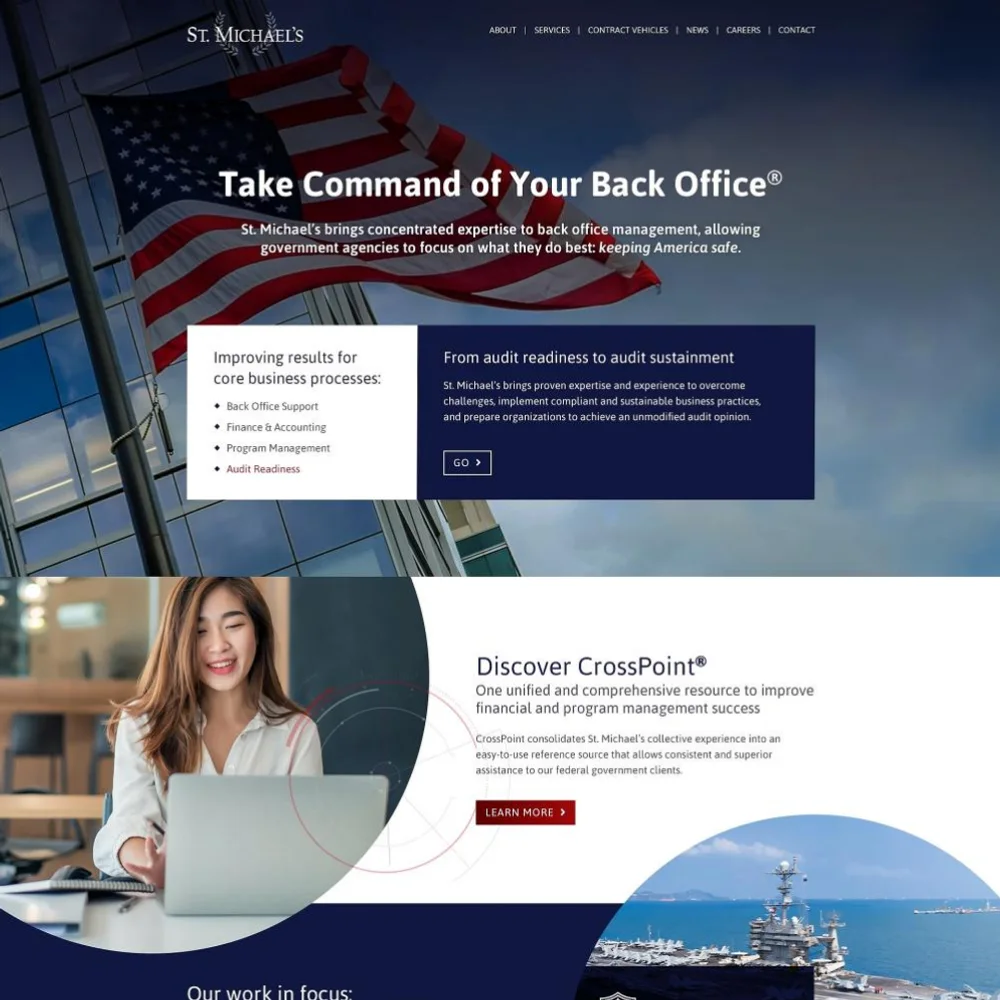
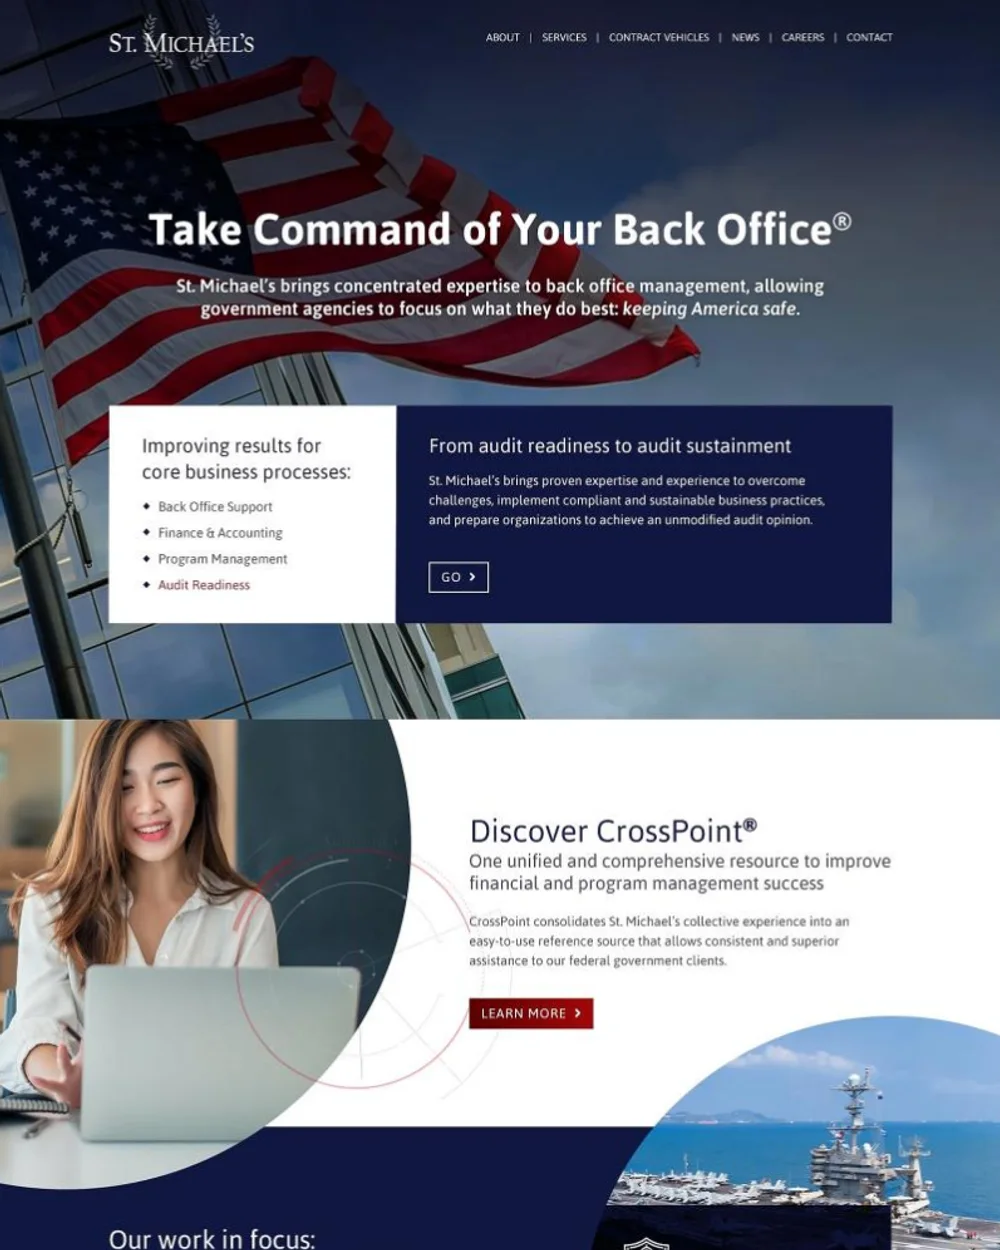
Make the "same record" an unfinished site, and both shots taller
The wireframe read as components. The left side is now the St.
Michael's homepage content with no design on it: browser-default serif,
blue underlined links, a grey box where the hero photo is missing, a
default button and a TODO note. Its source is kept under assets/src and
rendered to WebP. Both shots go to 4:5, the home cropped from its centre.

diff --git a/assets/src/incomplete-site.html b/assets/src/incomplete-site.html
@@ -1,0 +1,81 @@
+<!doctype html>
+<html lang="en">
+<head>
+<meta charset="utf-8">
+<title>St. Michael's — draft</title>
+<!-- The "same record": the St. Michael's homepage content with no design on it
+     yet. Browser defaults on purpose — serif text, blue underlined links, a
+     grey default button, and the photos not placed. Rendered to
+     ../incomplete-site.webp at 480x600 css px, 2x. -->
+<style>
+  html { background: #fff; }
+  body {
+    margin: 0;
+    padding: 14px 18px 18px;
+    width: 480px;
+    height: 600px;
+    box-sizing: border-box;
+    font-family: 'Times New Roman', Times, serif;
+    font-size: 12.5px;
+    line-height: 1.35;
+    color: #000;
+  }
+  a { color: #0000ee; }
+  h1 { font-size: 21px; margin: 0 0 2px; }
+  h2 { font-size: 15.5px; margin: 14px 0 4px; }
+  p { margin: 0 0 6px; }
+  ul { margin: 2px 0 6px; padding-left: 22px; }
+  li { margin: 0; }
+  hr { border: 0; border-top: 1px solid #999; margin: 8px 0 10px; }
+  .nav { font-size: 12px; margin: 0 0 6px; }
+  .nav a { margin-right: 2px; }
+  .missing {
+    display: flex; align-items: center; justify-content: center; gap: 8px;
+    height: 100px; margin: 4px 0 10px;
+    border: 1px solid #c9c9c9; background: #f3f3f3;
+    color: #777; font-family: Arial, Helvetica, sans-serif; font-size: 11px;
+  }
+  .missing svg { width: 16px; height: 16px; flex: none; }
+  .missing.small { height: 56px; width: 150px; float: left; margin: 2px 12px 4px 0; }
+  .todo { color: #b00; font-family: Arial, Helvetica, sans-serif; font-size: 10.5px; }
+  button { font-family: Arial, Helvetica, sans-serif; font-size: 12px; margin-top: 2px; }
+  table { border-collapse: collapse; font-size: 11.5px; margin: 6px 0 4px; }
+  td { border: 1px solid #bbb; padding: 2px 6px; }
+</style>
+</head>
+<body>
+  <h1>St. Michael's</h1>
+  <p class="nav">
+    <a href="#">About</a> | <a href="#">Services</a> | <a href="#">Contract Vehicles</a> | <a href="#">News</a> | <a href="#">Careers</a> | <a href="#">Contact</a>
+  </p>
+  <hr>
+
+  <div class="missing">
+    <svg viewBox="0 0 16 16" aria-hidden="true"><rect x="1.5" y="2.5" width="13" height="11" fill="#fff" stroke="#999"/><path d="M3 11l3-4 2.5 3 2-2 2.5 3" fill="none" stroke="#999"/><circle cx="5.5" cy="5.5" r="1" fill="#999"/><path d="M10 2.5v3h3" fill="none" stroke="#999"/></svg>
+    hero-flag.jpg (image not found)
+  </div>
+
+  <h2 style="margin-top:0">Take Command of Your Back Office&reg;</h2>
+  <p>St. Michael's brings concentrated expertise to back office management, allowing government agencies to focus on what they do best: <i>keeping America safe.</i></p>
+
+  <p><b>Improving results for core business processes:</b></p>
+  <ul>
+    <li>Back Office Support</li>
+    <li>Finance &amp; Accounting</li>
+    <li>Program Management</li>
+    <li>Audit Readiness</li>
+  </ul>
+
+  <h2>From audit readiness to audit sustainment</h2>
+  <p>St. Michael's brings proven expertise and experience to overcome challenges, implement compliant and sustainable business practices, and prepare organizations to achieve an unmodified audit opinion.</p>
+  <button type="button">Go</button>
+
+  <h2>Discover CrossPoint&reg;</h2>
+  <div class="missing small">
+    <svg viewBox="0 0 16 16" aria-hidden="true"><rect x="1.5" y="2.5" width="13" height="11" fill="#fff" stroke="#999"/><path d="M3 11l3-4 2.5 3 2-2 2.5 3" fill="none" stroke="#999"/><circle cx="5.5" cy="5.5" r="1" fill="#999"/></svg>
+    photo tbd
+  </div>
+  <p>One unified and comprehensive resource to improve financial and program management success. CrossPoint consolidates St. Michael's collective experience into an easy-to-use reference source.</p>
+  <p><a href="#">Learn more</a> <span class="todo">&larr; TODO: button style</span></p>
+</body>
+</html>

diff --git a/index.html b/index.html
@@ -236,19 +236,20 @@
         <p class="quote-rail">Not sure where your site stands? <a href="#contact">Let's talk about your homepage <svg class="arrow icon" width="15" height="15" aria-hidden="true"><use href="#i-arrow"/></svg></a></p>
       </div>
 
-      <!-- The same homepage twice: as the pencil draft it starts from, and as
-           the St. Michael's home ImageWorks built from it. -->
+      <!-- The same homepage twice: as the unfinished site it starts from — the
+           content in place, no design on it yet — and as the St. Michael's
+           home ImageWorks built from it. -->
       <figure class="fig reveal">
         <div class="fig-pair">
           <div class="fig-shot fig-shot--then">
-            <img src="assets/draft-wireframe.svg" width="600" height="600" loading="lazy" decoding="async" alt="A pencil wireframe of a homepage: header, hero image with a headline, two content panels, and a split section with a round photo and a button.">
+            <img src="assets/incomplete-site.webp" width="1000" height="1250" loading="lazy" decoding="async" alt="The St. Michael's homepage before design: plain black serif text on white, blue underlined menu links, a grey box where the hero photo is missing, a default grey button, and a red TODO note.">
             <span class="fig-label">Same record</span>
           </div>
           <span class="fig-bridge" aria-hidden="true">
             <svg viewBox="0 0 56 16" width="56" height="16"><line x1="2" y1="8" x2="38" y2="8" stroke="var(--green)" stroke-width="2.5" stroke-linecap="round" stroke-dasharray="1 8"/><path d="M42 1 L52 8 L42 15" fill="none" stroke="var(--green-ink)" stroke-width="2.5" stroke-linecap="round" stroke-linejoin="round"/></svg>
           </span>
           <div class="fig-shot fig-shot--now">
-            <img src="assets/st-michaels-home.webp" width="1000" height="1000" loading="lazy" decoding="async" alt="The St. Michael's homepage designed by ImageWorks Creative: an American flag hero reading 'Take Command of Your Back Office', two service panels, and a 'Discover CrossPoint' feature section.">
+            <img src="assets/st-michaels-home.webp" width="1000" height="1250" loading="lazy" decoding="async" alt="The St. Michael's homepage designed by ImageWorks Creative: an American flag hero reading 'Take Command of Your Back Office', two service panels, and a 'Discover CrossPoint' feature section.">
             <span class="fig-label fig-label-now">New machine</span>
           </div>
         </div>

diff --git a/styles.css b/styles.css
@@ -1111,15 +1111,15 @@ html:not([data-anim="on"]) .hl { background-size: 100% .34em; }
 .fig-shot img {
   width: 100%;
   height: auto;
-  aspect-ratio: 1;
+  aspect-ratio: 4 / 5;
   object-fit: cover;
   object-position: top;
   border-radius: var(--r);
   transition: transform .45s var(--ease), box-shadow .45s var(--ease), opacity .45s var(--ease);
 }
-/* the draft: paper-flat, a hairline, a little faded */
+/* the unfinished site: flat, a hairline, a little faded */
 .fig-shot--then img {
-  background: #fbfcfd;
+  background: #fff;
   box-shadow: inset 0 0 0 1px var(--border), var(--shadow-flat);
   opacity: .9;
 }
